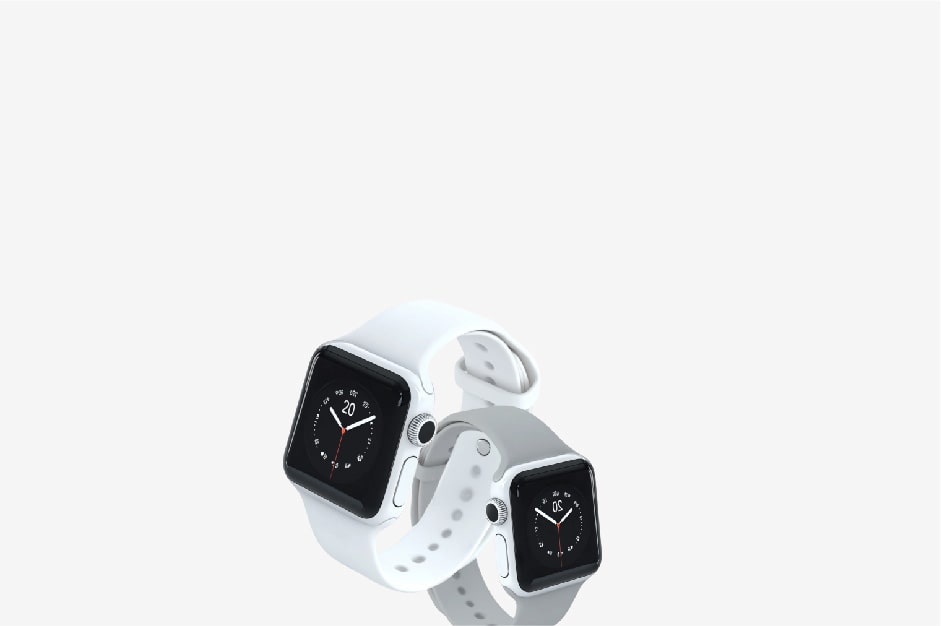
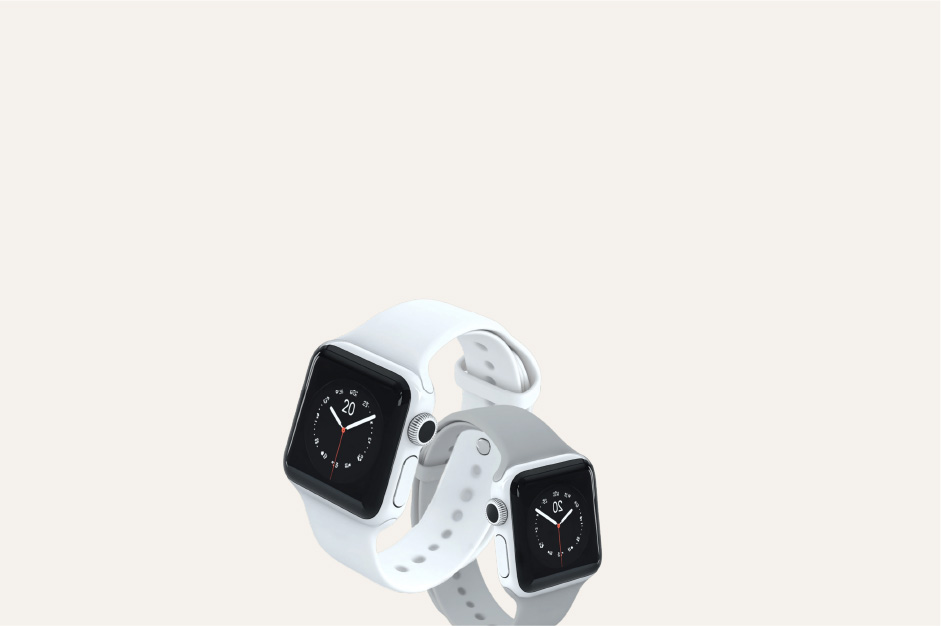
MARGIN E IMAGENES

diff --git a/css/estilos.css b/css/estilos.css
@@ -416,7 +416,6 @@ body{
     left: 0;
     width: 100%;
     height: 100%;
-    
 }
 
 .contenedor-mp4-grande h2{
@@ -457,9 +456,7 @@ body{
 .footer {
     display: flex;
     padding: 40px;
-    background-color: #F5F1EC;
-    /* F5F1EC */
-    /* F5F5F4 */
+    background-color: #F5F1EC; /* Color primario */
     height: auto;
     flex-direction: column;
     justify-content: space-between;
@@ -558,141 +555,13 @@ body{
 }
 
 
-   
-/* Galeria */
-
-
-.h2-slider-gale{
-    top: 100px;
-    padding-left: 40px;
-    position: relative;
-    font-weight: normal;
-    font-family:"nipo";
-}
-.slider-conte{
-    width: 100%;
-    margin-top: 160px;
-    position: relative;
-    display: flex;
-
-} 
-
-.slider-gale{
-    align-items: center;
-    max-width: 100vw; /* Ajuste de ancho */
-    height: 700px;
-    overflow: hidden;
-    
-}
-
-.slider-manual{
-    display: flex;
-    transition: .5s ease-in-out;
-    padding: 40px;
-
-}
-
-.slider{
-    width: 300px;
-    height: 700px;
-    display: flex;
-    margin-right: 10px; /* Espaciado entre los slides */
-    padding-bottom: 90px;    
-}
-
-.slider img {
-    object-fit: cover;
-    width: 100%;
-    height: 100%;
-    border-radius: 25px;
-    box-shadow: 0 10px 15px rgba(0, 0, 0, 0.2); /* solo abajo */
-    
-}
-
-.slider-conte1{
-    width: 100%;
-    margin-bottom: 100px;
-    top: 90px;
-    position: relative;
-    display: flex;
-}
-.slider-gale1{
-    align-items: center;
-    max-width: 100vw; /* Ajuste de ancho */
-    height: 100%;
-    overflow: hidden;
-
-}
-
-.slider-manual1{
-    display: flex;
-    transition: .5s ease-in-out;
-    padding: 40px;
-}
-
-.slider1{
-    display: flex;
-    margin-right: 10px; /* Espaciado entre los slides */
-    margin-bottom: 100px;
-    width: 100%;
-    height: 100%;
-}
-
-.slider1 picture{
-    object-fit: cover;
-    width: 600px;
-    height: 350px;
-    padding-bottom: 100px;
-    border-radius: 25px;
-    box-shadow: 0 10px 15px rgba(0, 0, 0, 0.2); /* solo abajo */
-}
-
-
-.button-prev-slider,
-.button-next-slider,
-.button-prev-slider1,
-.button-next-slider1{
-    position: absolute;
-    z-index: 10;
-    font-size: 50px;
-    border: none;
-    background: none;
-    color: #9e9e9ecb;
-    cursor: pointer;
-    top: 50%;
-    transform: translateY(-50%);
-}
-
-.button-prev-slider,
-.button-prev-slider1 {
-    left: 10px;
-    
-}
-
-.button-next-slider,
-.button-next-slider1{
-    right: 10px;
-    
-}
-.h2-entre-slider{
-    top: 50px;
-    padding-left: 40px;
-    position: relative;
-    font-weight: normal;
-    font-family:"nipo";
-}
-
-
-
-
-/* Imagenes galeria */
+/* Imagenes GALERIA */
 
 .conten-gale{
     display: flex;
     flex-wrap: wrap; /* <-- ESTO AGREGA EL COMPORTAMIENTO DE LÍNEAS MÚLTIPLES */
-    width: 100%;
+    max-width: 100%;
     overflow: visible;
-
 }
 
 .watch-gale,.acce-gale{
@@ -806,7 +675,7 @@ body{
 .acce-gale{
     margin-top:40px;
     margin-left: 30px;
-    width: 478px;
+    width: 496px;
     height: 300px;
     box-shadow: 0 3px 15px rgba(0, 0, 0, 0.2); /* solo abajo */
 }
@@ -986,6 +855,132 @@ body{
     padding: 10px;
     font-family:"Futura";
     background-color: #7e7b7b4d;
+}
+
+
+
+   
+/* slider de galeria */
+
+
+.h2-slider-gale{
+    top: 100px;
+    padding-left: 40px;
+    position: relative;
+    font-weight: normal;
+    font-family:"nipo";
+}
+.slider-conte{
+    width: 100%;
+    margin-top: 160px;
+    position: relative;
+    display: flex;
+
+} 
+
+.slider-gale{
+    align-items: center;
+    max-width: 100vw; /* Ajuste de ancho */
+    height: 700px;
+    overflow: hidden;
+    
+}
+
+.slider-manual{
+    display: flex;
+    transition: .5s ease-in-out;
+    padding: 40px;
+
+}
+
+.slider{
+    width: 300px;
+    height: 700px;
+    display: flex;
+    margin-right: 10px; /* Espaciado entre los slides */
+    padding-bottom: 90px;    
+}
+
+.slider img {
+    object-fit: cover;
+    width: 100%;
+    height: 100%;
+    border-radius: 25px;
+    box-shadow: 0 10px 15px rgba(0, 0, 0, 0.2); /* solo abajo */
+    
+}
+
+.slider-conte1{
+    width: 100%;
+    margin-bottom: 100px;
+    top: 90px;
+    position: relative;
+    display: flex;
+}
+.slider-gale1{
+    align-items: center;
+    max-width: 100vw; /* Ajuste de ancho */
+    height: 100%;
+    overflow: hidden;
+
+}
+
+.slider-manual1{
+    display: flex;
+    transition: .5s ease-in-out;
+    padding: 40px;
+}
+
+.slider1{
+    display: flex;
+    margin-right: 10px; /* Espaciado entre los slides */
+    margin-bottom: 100px;
+    width: 100%;
+    height: 100%;
+}
+
+.slider1 picture{
+    object-fit: cover;
+    width: 600px;
+    height: 350px;
+    padding-bottom: 100px;
+    border-radius: 25px;
+    box-shadow: 0 10px 15px rgba(0, 0, 0, 0.2); /* solo abajo */
+}
+
+
+.button-prev-slider,
+.button-next-slider,
+.button-prev-slider1,
+.button-next-slider1{
+    position: absolute;
+    z-index: 10;
+    font-size: 50px;
+    border: none;
+    background: none;
+    color: #9e9e9ecb;
+    cursor: pointer;
+    top: 50%;
+    transform: translateY(-50%);
+}
+
+.button-prev-slider,
+.button-prev-slider1 {
+    left: 10px;
+    
+}
+
+.button-next-slider,
+.button-next-slider1{
+    right: 10px;
+    
+}
+.h2-entre-slider{
+    top: 50px;
+    padding-left: 40px;
+    position: relative;
+    font-weight: normal;
+    font-family:"nipo";
 }
     
 /* CONTACTOS */
